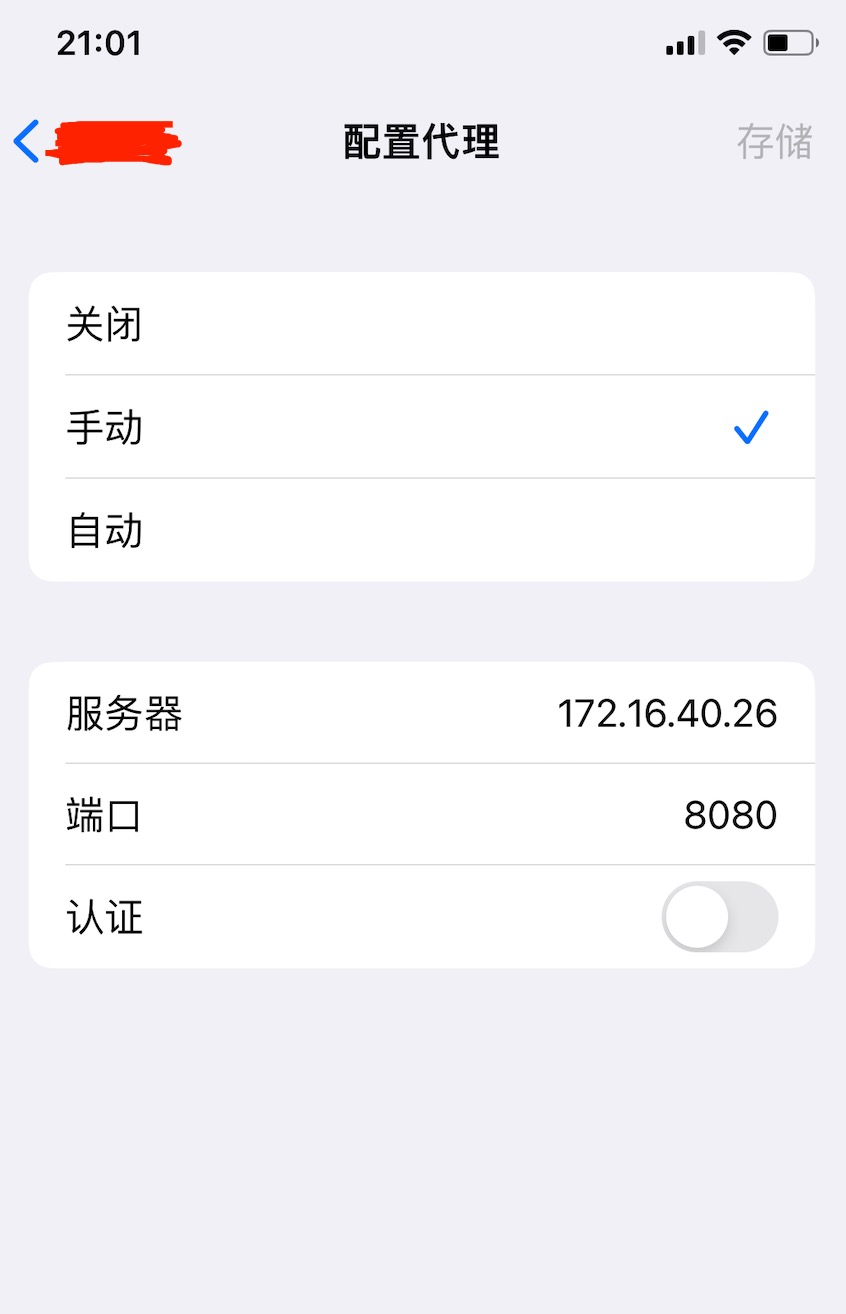
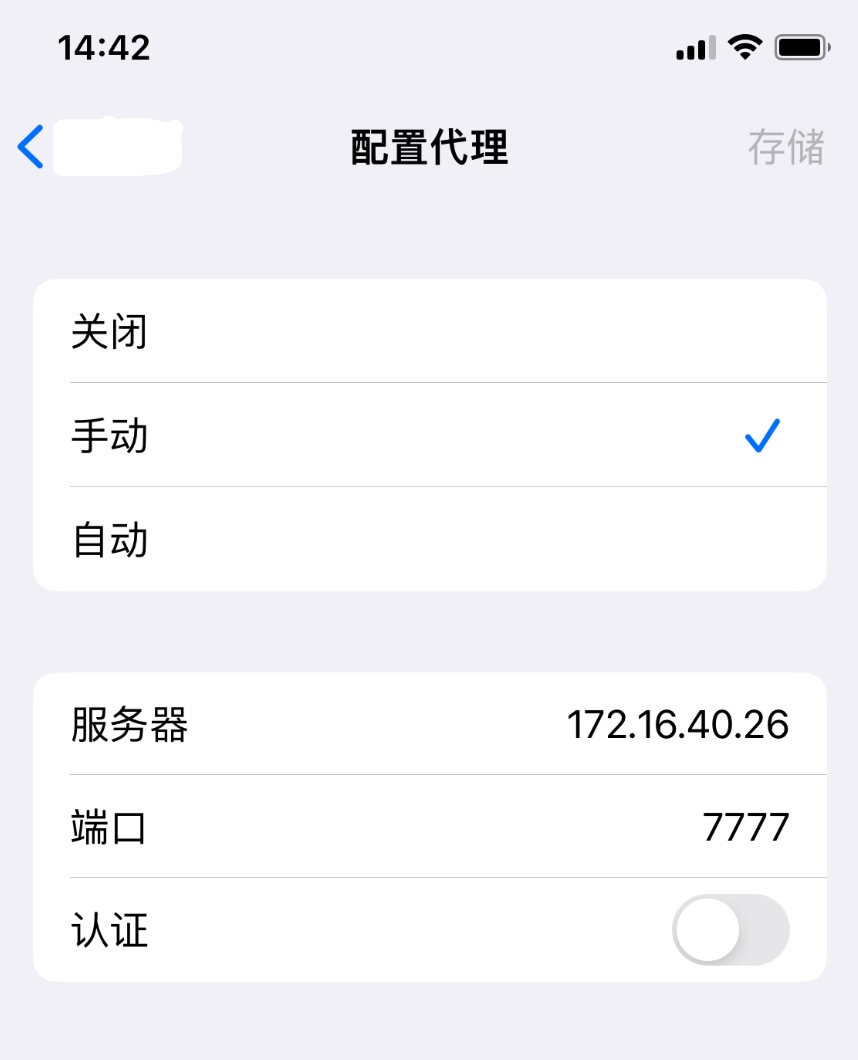
update

diff --git a/public/data/docs/2/chapter/1750703434233.md b/public/data/docs/2/chapter/1750703434233.md
@@ -8,7 +8,7 @@ theme: channing-cyan
 <img src="/image/docs/2/10.jpg" style="width: 500px;"> 
 
 
-打开互联网共享, 共享以下来源的连接，选择`Wi-Fi`, 使用以下端口共享给设备，把 `iPhone USB` 都选上。然后，iPhone通过数据线连接电脑。
+打开互联网共享, 共享以下来源的连接，选择`Wi-Fi`, 使用以下端口共享给设备，把 `iPhone USB` 都选上。然后，iPhone通过数据线连接电脑(最好把手机的WIFI，移动网络都关掉)。
 <img src="/image/docs/2/11.jpg" style="width: 500px;">
 
 ### 开启流量转发
@@ -19,7 +19,6 @@ sudo sysctl -w net.inet.ip.forwarding=1
 ### 配置流量转发规则
 ```
 sudo echo "rdr pass on bridge102 inet proto tcp to any port {80, 443} -> 127.0.0.1 port 7777" | sudo pfctl -ef -
-sudo sh -c "echo 'ALL ALL=NOPASSWD: /sbin/pfctl -s state' >> /etc/sudoers"
 ```
 将所有通过 bridge102 接口的 HTTP/HTTPS 流量会被转发到 `127.0.0.1:7777`。也可能不是 `bridge102`，可以输入 `ifconfig`，将输出发给AI，问AI是哪个。
 
@@ -33,8 +32,7 @@ sudo sh -c "echo 'ALL ALL=NOPASSWD: /sbin/pfctl -s state' >> /etc/sudoers"
 
 * `to any port {80, 443}`：匹配目标端口为 80（HTTP）或 443（HTTPS）的流量。
 
-* `-> 192.168.2.1 port 7777`：将匹配的流量重定向到 192.168.2.1 的 9999 端口。
-* **作用**：所有通过 bridge102 接口的 HTTP/HTTPS 流量会被转发到 192.168.2.1:9999
+* `-> 127.0.0.1 port 7777`：将匹配的流量重定向到 192.168.2.1 的 9999 端口。
 
 ### 允许 mitmproxy 无需密码即可执行 pfctl
 ```
@@ -44,6 +42,10 @@ sudo sh -c "echo 'ALL ALL=NOPASSWD: /sbin/pfctl -s state' >> /etc/sudoers"
 ### 查看 流量转发（IP Forwarding） 是否开启
 ```
 sysctl net.inet.ip.forwarding
+```
+输出如下, `1`表示已开启
+```
+net.inet.ip.forwarding: 1
 ```
 
 ### 查看当前生效的 NAT（网络地址转换）规则

diff --git a/public/data/docs/2/chapter/1750703453065.md b/public/data/docs/2/chapter/1750703453065.md
@@ -12,7 +12,7 @@ brew install mitmproxy
 ## Map Remote
 使用 `mitmproxy` 进行 `Map Remote` 操作可以将远程服务器上的 URL 映射到另一个 URL 上。这对于测试和开发来说非常有用。
 
-创建 `map_domains.py`, 将一个远程域名映射到另一个远程域名
+创建 `proxy.py`, 将一个远程域名映射到另一个远程域名
 
 ```
 def request(flow):
@@ -44,7 +44,7 @@ def request(flow):
 
 ## 运行
 ```
-mitmweb --mode regular --listen-port 8080  -s map_domains.py
+mitmweb --mode regular --listen-port 7777  -s proxy.py
 ```
 
 如果端口被占用，运行以下命令，杀死之前的进程

diff --git a/public/data/docs/2/chapter/1750703415692.md b/public/data/docs/2/chapter/1750703415692.md
@@ -66,7 +66,7 @@ pkill -f mitmweb
 
 信任操作步骤：设置 -> 通用 -> 关于本机 -> 证书信任设置 -> 打开开关。
 
-<img src="/image/docs/2/3.png" style="width: 500px;">     
+<img src="/image/docs/2/3.jpg" style="width: 500px;">     
 
 ## 快捷键
 清空所有的请求，直接按 `z` 就可以了  
